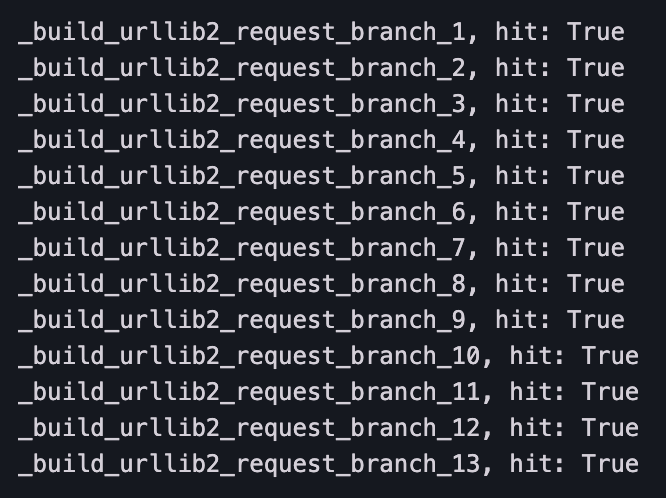
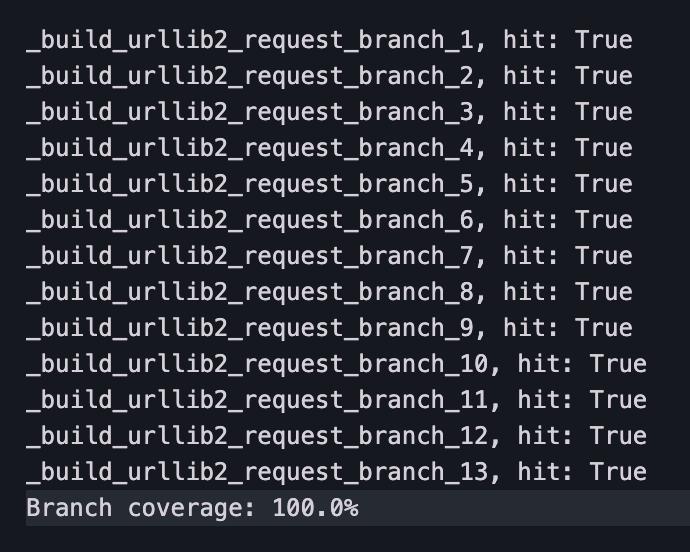
branch % + updated the images

diff --git a/src/reader/_vendor/feedparser/http.py b/src/reader/_vendor/feedparser/http.py
@@ -105,11 +105,14 @@ branch_coverage = {
 }
 
 def print_coverage__build():
+    count = 0
     with open('_build_urllib2_request_coverage.txt', 'a') as file:
         for branch, hit in branch_coverage.items():
             print(f"{branch}, hit: {hit}", file=file)
+            if hit == True:
+                count += 1
 
-        print("\n", file=file)
+        print(f"Branch coverage: {round(count / len(branch_coverage) * 100, 2)}%\n", file=file)
 
 
 def _build_urllib2_request(url, agent, accept_header, etag, modified, referrer, auth, request_headers):

diff --git a/src/reader/_cli.py b/src/reader/_cli.py
@@ -498,10 +498,16 @@ branch_coverage = {
 
 def print_coverage_setup_logging():
     with open('setup_logging_coverage.txt', 'a') as file:
+        count = 0
         for branch, hit in branch_coverage.items():
             print(f"{branch}, hit: {hit}", file=file)
+            if hit:
+                count += 1
 
-        print("\n", file=file)
+        print(
+            f"Branch coverage: {round(count / len(branch_coverage) * 100, 2)}%\n",
+            file=file,
+        )
 
 
 if __name__ == '__main__':
